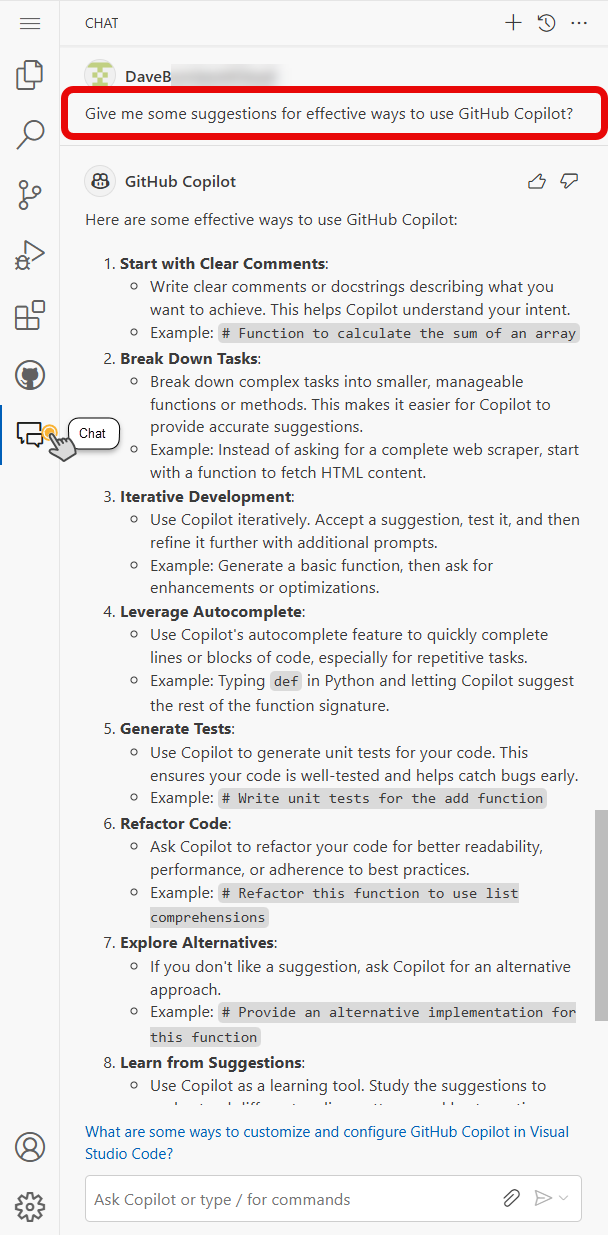
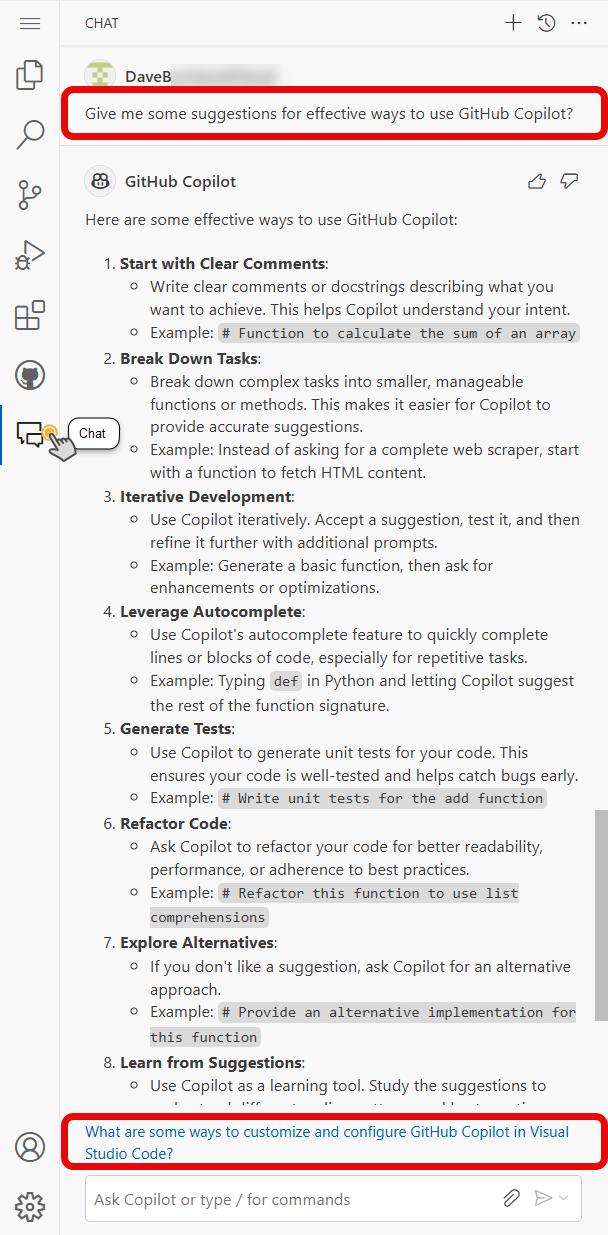
Update GitHub Copilot documentation for chat interface suggestions

Changed region(s): [[0.0938, 0.8923, 1.0, 0.9538]]

diff --git a/labs.md b/labs.md
@@ -79,7 +79,9 @@ One way to interact with GitHub Copilot is to use the chat interface. This is a 
 ```
 Give me some suggestions for effective ways to use GitHub Copilot.
 ```
-![Copilot Suggestions](./images/pic015.png?raw=true "Copilot Suggestions")   
+![Copilot Suggestions](./images/pic015.png?raw=true "Copilot Suggestions")  
+
+Notice how GitHub Copilot Chat provides a suggestion for your next question. This is a great way to keep the conversation going.
 
 2. Now that we have some suggestions, let's ask for some **specific examples** of commands or prompts that can be used with GitHub Copilot. Enter the following question in the prompt box.
 
